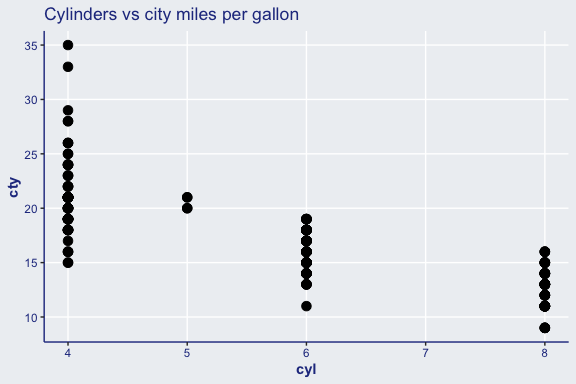
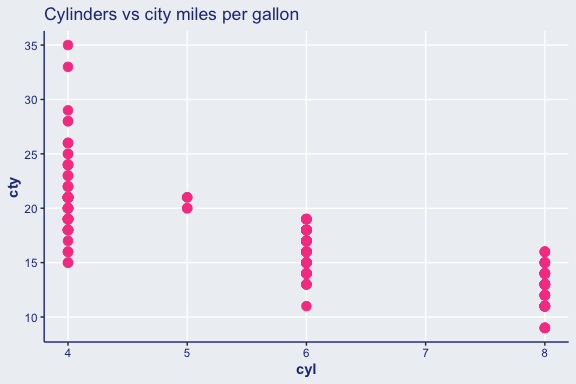
Updated knitted images

diff --git a/README.md b/README.md
@@ -23,7 +23,7 @@ library(ggorbisant)
 ggplot(mpg, aes(x = cyl, y = cty)) +
   geom_point(size = 3) +
   labs(title = "Cylinders vs city miles per gallon") +
-  theme_orbisant()
+  theme_orbisant(grids = TRUE)
 ```
 
 ![](README_files/figure-gfm/unnamed-chunk-3-1.png)<!-- -->
@@ -47,7 +47,7 @@ ggplot(mpg, aes(x = cyl, y = cty, colour = drv)) +
 geom_point(size = 3) +
 labs(title = "Cylinders vs city miles per gallon by drivetrain") +
 scale_colour_orbisant() +
-theme_orbisant()
+theme_orbisant(grids = TRUE)
 ```
 
 ![](README_files/figure-gfm/unnamed-chunk-5-1.png)<!-- -->
